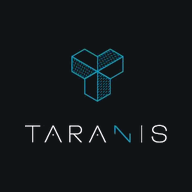
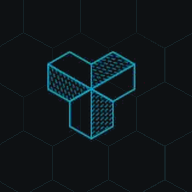
Add files via upload

diff --git a/index.html b/index.html
@@ -14,7 +14,7 @@
 <meta name="apple-mobile-web-app-capable" content="yes">
 <meta name="apple-mobile-web-app-status-bar-style" content="black-translucent">
 <meta name="apple-mobile-web-app-title" content="Taranis">
-<link rel="apple-touch-icon" href="./taranis-logo.png">
+<link rel="apple-touch-icon" href="./apple-touch-icon.png">
 <link rel="icon" href="./icon-192.png" sizes="192x192" type="image/png">
 <link rel="apple-touch-icon" href="./icon-192.png">
 <meta name="apple-mobile-web-app-capable" content="yes">
